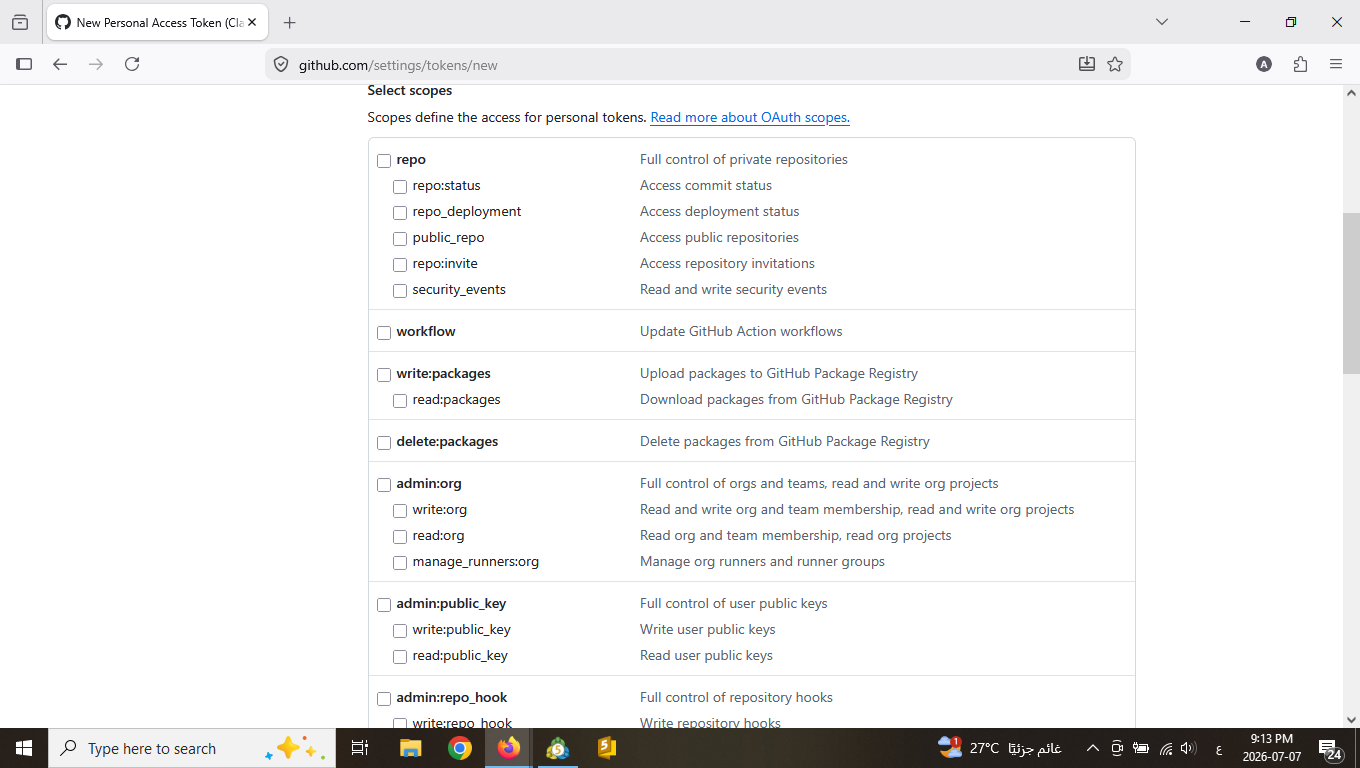
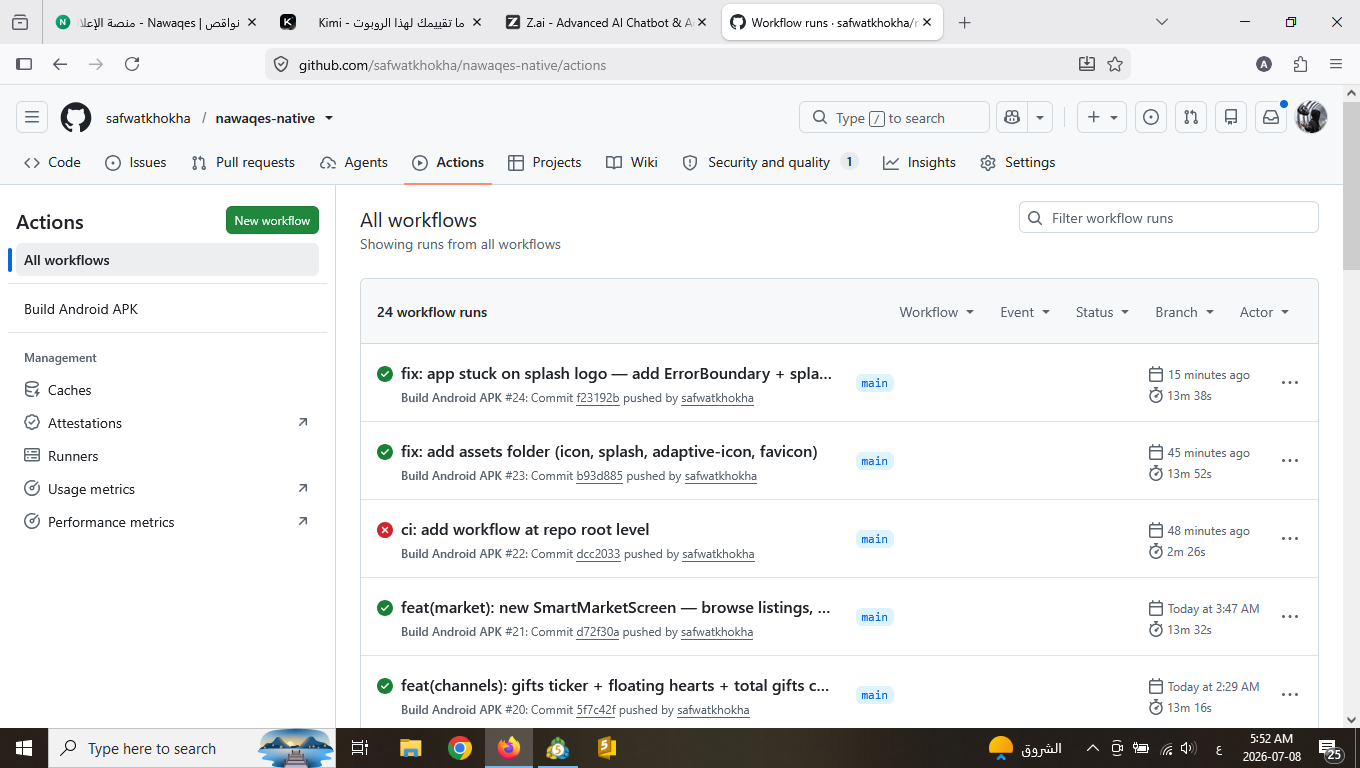
35ca0b67-d1ca-4ef2-83d2-32793d4b7de0

diff --git a/nawaqes/src/components/LoginPage.tsx b/nawaqes/src/components/LoginPage.tsx
@@ -1407,15 +1407,15 @@ export const LoginPage: React.FC = () => {
           <span>حمّل تطبيق نواقص الآن</span>
         </div>
         <a
-          href="https://huggingface.co/datasets/safwatkhokha/nawaqes-backup/resolve/main/nawaqes-native-v3.0.0.apk"
+          href="https://huggingface.co/datasets/safwatkhokha/nawaqes-backup/resolve/main/nawaqes-native-v3.0.1.apk"
           download
           className="flex items-center gap-2.5 px-5 py-3 rounded-xl bg-white/10 backdrop-blur border border-white/20 hover:bg-white/20 transition-all active:scale-95"
           style={{ textDecoration: 'none' }}
         >
           <Download className="w-5 h-5 text-white" />
           <div className="text-start">
-            <p className="text-white text-xs font-bold leading-tight">تطبيق نواقص v3.0.0 Native</p>
-            <p className="text-white/60 text-[9px] leading-tight">APK — تحديث شامل لكل الشاشات</p>
+            <p className="text-white text-xs font-bold leading-tight">تطبيق نواقص v3.0.1 Native</p>
+            <p className="text-white/60 text-[9px] leading-tight">APK — إصلاح تجمد الشاشة على الشعار</p>
           </div>
         </a>
       </motion.div>

diff --git a/scripts/upload-native-apk.py b/scripts/upload-native-apk.py
@@ -1,46 +1,19 @@
 #!/usr/bin/env python3
-"""Upload the Nawaqes Native APK to Hugging Face Dataset."""
-import os
-import subprocess
+import os, subprocess
 from huggingface_hub import HfApi
 
-# Extract token from HF Space git remote URL
-try:
-    result = subprocess.run(
-        ['git', 'config', '--get', 'remote.origin.url'],
-        cwd='/home/z/my-project/nawaqes-space-clone',
-        capture_output=True, text=True, check=True,
-    )
-    url = result.stdout.strip()
-    token = url.split(':', 2)[2].split('@')[0]
-    print(f'[OK] Extracted HF token ({len(token)} chars)')
-except Exception as e:
-    print('Token extraction failed:', e)
-    raise SystemExit(1)
+result = subprocess.run(['git', 'config', '--get', 'remote.origin.url'],
+    cwd='/home/z/my-project/nawaqes-space-clone', capture_output=True, text=True, check=True)
+token = result.stdout.strip().split(':', 2)[2].split('@')[0]
 
-hf_token = os.environ.get('HF_TOKEN', token)
-api = HfApi(token=hf_token)
+api = HfApi(token=token)
 repo_id = 'safwatkhokha/nawaqes-backup'
-
-APK_VERSION = 'v3.0.0'
+APK_VERSION = 'v3.0.1'
 apk_path = f'/home/z/my-project/download/nawaqes-native-{APK_VERSION}.apk'
 path_in_repo = f'nawaqes-native-{APK_VERSION}.apk'
 
-if not os.path.exists(apk_path):
-    print(f'[ERR] APK not found: {apk_path}')
-    raise SystemExit(1)
-
-size_mb = os.path.getsize(apk_path) / 1024 / 1024
-print(f'[UPLOAD] Uploading {apk_path} ({size_mb:.1f} MB)')
-print(f'         → {repo_id}/{path_in_repo}')
-
-api.upload_file(
-    path_or_fileobj=apk_path,
-    path_in_repo=path_in_repo,
-    repo_id=repo_id,
-    repo_type='dataset',
-    commit_message=f'Upload Nawaqes Native {APK_VERSION} APK (major release — all screens enhanced)',
-)
-
-print(f'[UPLOAD] Done!')
-print(f'  Download URL: https://huggingface.co/datasets/{repo_id}/resolve/main/{path_in_repo}')
+print(f'[UPLOAD] {apk_path} ({os.path.getsize(apk_path)/1024/1024:.1f} MB)')
+api.upload_file(path_or_fileobj=apk_path, path_in_repo=path_in_repo,
+    repo_id=repo_id, repo_type='dataset',
+    commit_message=f'Upload Nawaqes Native {APK_VERSION} APK (fix splash logo stuck)')
+print(f'[UPLOAD] Done! URL: https://huggingface.co/datasets/{repo_id}/resolve/main/{path_in_repo}')